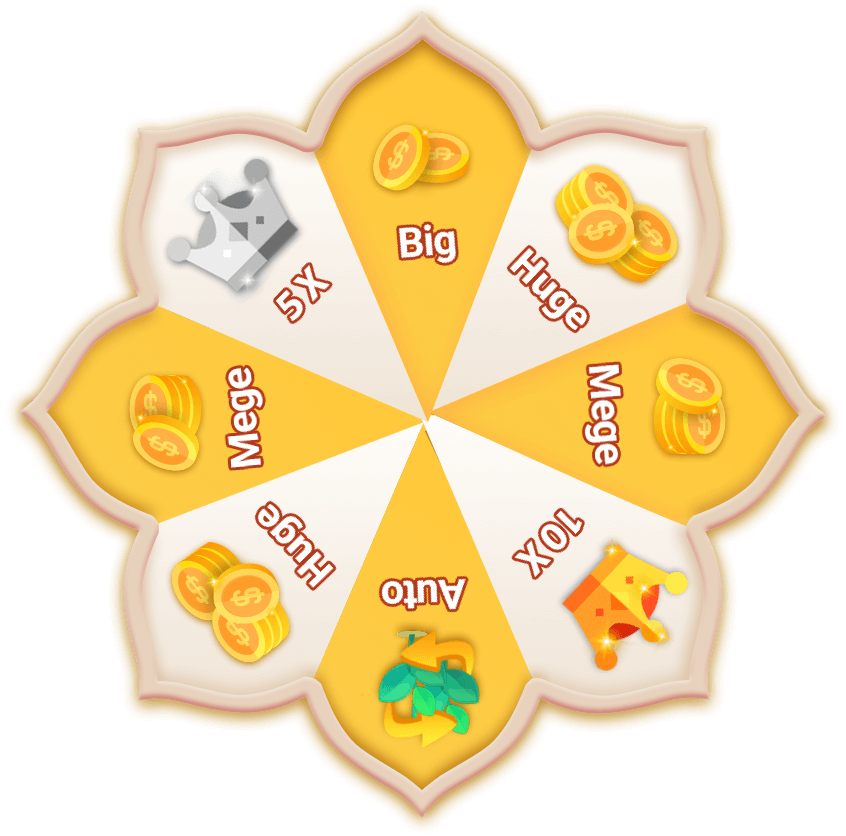
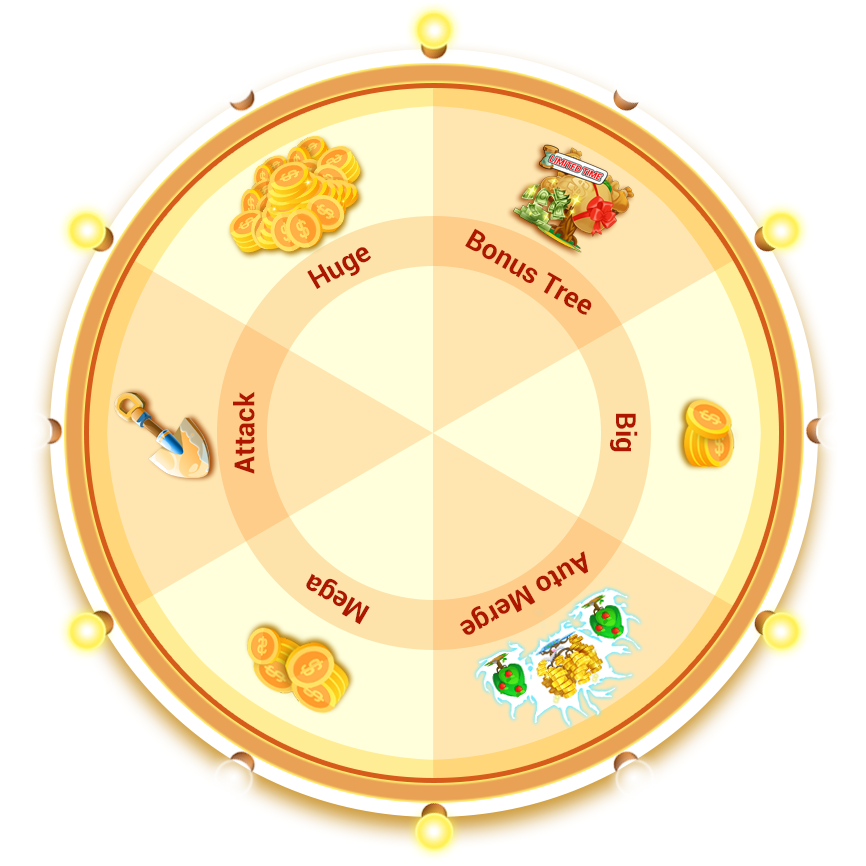
feat-大转盘修改

diff --git a/lib/pages/trip/game/lucky_wheel.dart b/lib/pages/trip/game/lucky_wheel.dart
@@ -1,11 +1,10 @@
+import 'dart:convert';
 import 'dart:developer';
 import 'dart:math';
 
 import 'package:flutter/material.dart';
 import 'package:flutter_screenutil/flutter_screenutil.dart';
 import 'package:luckyfruit/models/index.dart';
-import 'package:luckyfruit/pages/trip/game/huge_win.dart';
-import 'package:luckyfruit/pages/trip/game/times_reward.dart';
 import 'package:luckyfruit/provider/lucky_group.dart';
 import 'package:luckyfruit/provider/tree_group.dart';
 import 'package:luckyfruit/provider/user_model.dart';
@@ -47,7 +46,7 @@ class LuckyWheelWrapperWidget extends StatelessWidget {
       backgroundColor: Colors.transparent,
       body: Center(
         child: Container(
-          width: ScreenUtil().setWidth(900),
+          width: ScreenUtil().setWidth(844),
           height: ScreenUtil().setWidth(1240),
           decoration: BoxDecoration(
             gradient: LinearGradient(
@@ -65,13 +64,13 @@ class LuckyWheelWrapperWidget extends StatelessWidget {
             Positioned(
                 top: -ScreenUtil().setWidth(80),
                 child: Container(
-                    width: ScreenUtil().setWidth(900),
+                    width: ScreenUtil().setWidth(844),
                     padding: EdgeInsets.symmetric(horizontal: 10),
 //                    color: Colors.red,
                     child: LuckyWheelWidget(null, onCloseWindow))),
             Positioned(
-                top: ScreenUtil().setWidth(50),
-                right: ScreenUtil().setWidth(50),
+                top: ScreenUtil().setWidth(20),
+                right: ScreenUtil().setWidth(20),
                 child: GestureDetector(
                   behavior: HitTestBehavior.translucent,
                   onTap: () {
@@ -113,6 +112,12 @@ class LuckyWheelWidgetState extends State<LuckyWheelWidget>
 
   // 上一次转到的位置，只在上次是翻倍奖励的时候返回，其他时候返回0
   int prevPos = 0;
+
+  /// 返回限时分红树时的数据字段
+  num treeId;
+  double amount;
+  int treeType;
+
   Tween<double> curTween;
 
   // 默认3圈
@@ -129,7 +134,7 @@ class LuckyWheelWidgetState extends State<LuckyWheelWidget>
 
   // 当前剩余观看广告次数，用尽后不能再触发点击
   int watchAdForTicketTimes = 0;
-  String testJson = """{"gift_id":5,"coin":1000,"prev":0,"duration":6}""";
+  String testJson = """{"gift_id":6,"coin":1000,"prev":0,"duration":6}""";
 
   num coinNum = 0;
   int watched_ad = 0;
@@ -189,7 +194,7 @@ class LuckyWheelWidgetState extends State<LuckyWheelWidget>
   Future<dynamic> getLuckResult(BuildContext context) async {
     TreeGroup treeGroup = Provider.of<TreeGroup>(context, listen: false);
     dynamic luckResultMap;
-    luckResultMap = await Service().getLuckyWheelResult({
+    luckResultMap = await Service().getLuckyWheelResultV2({
       'acct_id': treeGroup.acct_id,
       'coin_speed': treeGroup.makeGoldSped,
       'watched_ad': watched_ad
@@ -314,10 +319,12 @@ class LuckyWheelWidgetState extends State<LuckyWheelWidget>
                     Color(0xffF59A22),
                   ],
                   colorsOnBtnDisabled: [
-                    Color(0xffF3DB83),
-                    Color(0xffF3DB83),
+                    Color(0xffD4992B),
+                    Color(0xffD4992B),
                   ],
                   btnText: btnText,
+                  descText: "reset at 00:00",
+                  colorOfDisableedText: Color(0xffEEDD9B),
                   useAd: ticketCount <= 0,
                   disable: disable,
                   onCancel: () {
@@ -422,8 +429,12 @@ class LuckyWheelWidgetState extends State<LuckyWheelWidget>
       coinNum = luckResultMap['coin'] as num;
       durationOfAutoMerge = luckResultMap['duration'] as num;
 
-      print(
-          "返回的gift_id=$finalPos，coin=$coinNum, durationOfAutoMerge=$durationOfAutoMerge");
+      /// 以下是得到限时分红树时才会返回的
+      treeId = luckResultMap['tree_id'] as num;
+      amount = luckResultMap['amount'] as num;
+
+      print("返回的gift_id=$finalPos，coin=$coinNum, "
+          "durationOfAutoMerge=$durationOfAutoMerge, treeId=$treeId, amout=$amount");
 
       if (mounted) {
         setState(() {
@@ -442,139 +453,65 @@ class LuckyWheelWidgetState extends State<LuckyWheelWidget>
   }
 
   double _getAngelWithSelectedPosition(int pos) {
-    var x = 0.125;
+    var x = 2 / 6;
     switch (pos) {
-      case 8:
-        return 2 * x;
-        break;
-      case 7:
-        return 4 * x;
-        break;
       case 6:
-        return 6 * x;
+        return 3 / 2 * x;
         break;
       case 5:
-        return 8 * x;
+        return 5 / 2 * x;
         break;
       case 4:
-        return 10 * x;
+        return 7 / 2 * x;
         break;
       case 3:
-        return 12 * x;
+        return 9 / 2 * x;
         break;
       case 2:
-        return 14 * x;
+        return 11 / 2 * x;
         break;
       case 1:
-        return 0;
+        return 1 / 2 * x;
         break;
       default:
         return 0;
     }
   }
 
-//  double _getAngelWithSelectedPosition(int pos) {
-//    var x = 0.14, y = 0.22, z = 1 / 2;
-//    switch (pos) {
-//      case 8:
-//        return x + y;
-//        break;
-//      case 7:
-//        return z + x;
-//        break;
-//      case 6:
-//        return z + x + y;
-//        break;
-//      case 5:
-//        return 2 * z + x;
-//        break;
-//      case 4:
-//        return 2 * z + x + y;
-//        break;
-//      case 3:
-//        return 3 * z + x;
-//        break;
-//      case 2:
-//        print("_getAngelWithSelectedPosition $pos ${3 * z + x + y}");
-//        return 3 * z + x + y;
-//        break;
-//      case 1:
-//        return x;
-//        break;
-//      default:
-//        return 0;
-//    }
-//  }
-
+  /**
+   *  1、1hour coins                   Huge
+      2、The limited Bouns Tree
+      3、15min  coins                  Big
+      4、auto merge
+      5、30min coins                   Mega
+      6、attack
+   */
   void showRewardWindowWithFinalPostion(int finalPosition) {
-    int luckyWheelType;
     switch (finalPosition) {
-      case 8:
-        Layer.show5TimesTreasureWindow(TimesRewardWidget.TYPE_5_TIMES, () {
-          watched_ad = 1;
-        }, () {
-          watched_ad = 0;
-        });
-        return;
-      case 7:
-      case 3:
-        if (prevPos == 8) {
-          // 如果上次返回的是5倍奖励
-          luckyWheelType = LuckyWheelWinResultWindow.TYPE_MEGE_WIN_5X;
-        } else if (prevPos == 4) {
-          luckyWheelType = LuckyWheelWinResultWindow.TYPE_MEGE_WIN_10X;
-        } else {
-          luckyWheelType = LuckyWheelWinResultWindow.TYPE_MEGE_WIN;
-        }
+      case 1:
+        // huge，1hour coin
         break;
-      case 6:
       case 2:
-        if (prevPos == 8) {
-          // 如果上次返回的是5倍奖励
-          luckyWheelType = LuckyWheelWinResultWindow.TYPE_HUGE_WIN_5X;
-        } else if (prevPos == 4) {
-          luckyWheelType = LuckyWheelWinResultWindow.TYPE_HUGE_WIN_10X;
-        } else {
-          luckyWheelType = LuckyWheelWinResultWindow.TYPE_HUGE_WIN;
-        }
+        // The limited Bouns Tree
         break;
-      case 5:
-//        if (prevPos == 8) {
-//          // 如果上次返回的是5倍奖励
-//          luckyWheelType = LuckyWheelWinResultWindow.TYPE_JACKPOT_WIN_5X;
-//        } else if (prevPos == 4) {
-//          luckyWheelType = LuckyWheelWinResultWindow.TYPE_JACKPOT_WIN_10X;
-//        } else {
-//          luckyWheelType = LuckyWheelWinResultWindow.TYPE_JACKPOT_WIN;
-//        }
-//        break;
+      case 3:
+        // big，15min coin
+        break;
+      case 4:
         // 转到auto merge，每次一分钟
         LuckyGroup luckyGroup = Provider.of<LuckyGroup>(context, listen: false);
         luckyGroup.autoMergeDurationFromLuckyWheel += durationOfAutoMerge;
         Layer.showAutoMergeInLuckyWheel();
         return;
-      case 4:
-        Layer.show5TimesTreasureWindow(TimesRewardWidget.TYPE_10_TIMES, () {
-          watched_ad = 1;
-        }, () {
-          watched_ad = 0;
-        });
-        return;
-      case 1:
-        if (prevPos == 8) {
-          // 如果上次返回的是5倍奖励
-          luckyWheelType = LuckyWheelWinResultWindow.TYPE_BIG_WIN_5X;
-        } else if (prevPos == 4) {
-          luckyWheelType = LuckyWheelWinResultWindow.TYPE_BIG_WIN_10X;
-        } else {
-          luckyWheelType = LuckyWheelWinResultWindow.TYPE_BIG_WIN;
-        }
+      case 5:
+      // mega，30min coin
+        break;
+      case 6:
+      // attack
         break;
       default:
         Layer.toastWarning("Failed, Please Try Agagin Later");
         return;
     }
-
-    Layer.showLuckWheelWinResultWindow(luckyWheelType, coinNum);
   }
 }

diff --git a/lib/widgets/ad_btn.dart b/lib/widgets/ad_btn.dart
@@ -49,11 +49,13 @@ class AdButton extends StatefulWidget {
 
   final List<Color> colorsOnBtn;
   final List<Color> colorsOnBtnDisabled;
+  final Color colorOfDisableedText;
   final String adIconPath;
   final Map<String, String> adLogParam;
   final List<Shadow> tipsShadows;
   final bool showTopRightIcon;
   final bool enableAnimation;
+  final String descText;
 
   AdButton(
       {Key key,
@@ -72,6 +74,8 @@ class AdButton extends StatefulWidget {
       this.tips = 'Number of videos reset at 12am&12pm ({{times}} times left)',
       this.tipsColor,
       this.interval = const Duration(seconds: 2),
+      this.colorOfDisableedText = Colors.white,
+      this.descText,
       this.onOk,
       this.width = 600,
       this.height = 124,
@@ -373,11 +377,26 @@ class __AdButtonTitleWidgetState extends State<_AdButtonTitleWidget>
                               )
                             : Container(),
                         SizedBox(width: ScreenUtil().setWidth(24)),
-                        ModalTitle(
-                          widget.adButton.btnText,
-                          color: Colors.white,
-                          fontsize: widget.adButton.fontSize,
-                          textAlign: TextAlign.center,
+                        Column(
+                          mainAxisAlignment: MainAxisAlignment.center,
+                          children: <Widget>[
+                            ModalTitle(
+                              widget.adButton.btnText,
+                              color: !widget.adButton.disable
+                                  ? Colors.white
+                                  : widget.adButton.colorOfDisableedText,
+                              fontsize: widget.adButton.fontSize,
+                              textAlign: TextAlign.center,
+                            ),
+                            widget.adButton.disable &&
+                                    widget.adButton.descText != null
+                                ? FourthText(
+                                    widget.adButton.descText,
+                                    color: Color(0xffEEDD9B),
+                                    fontsize: 32,
+                                  )
+                                : Container(),
+                          ],
                         )
                       ],
                     ),

diff --git a/lib/service/index.dart b/lib/service/index.dart
@@ -96,6 +96,14 @@ class Service {
     return response.data['data'];
   }
 
+  // 获取大转盘结果（新版）
+  Future<Map<String, dynamic>> getLuckyWheelResultV2(
+      Map<String, dynamic> data) async {
+    Response response =
+        await _client.post('/Roulette/playRouletteV2', data: data);
+    return response.data['data'];
+  }
+
   // 获取大转盘结果
   Future<Map<String, dynamic>> exchangeRouletteGift(
       Map<String, dynamic> data) async {
